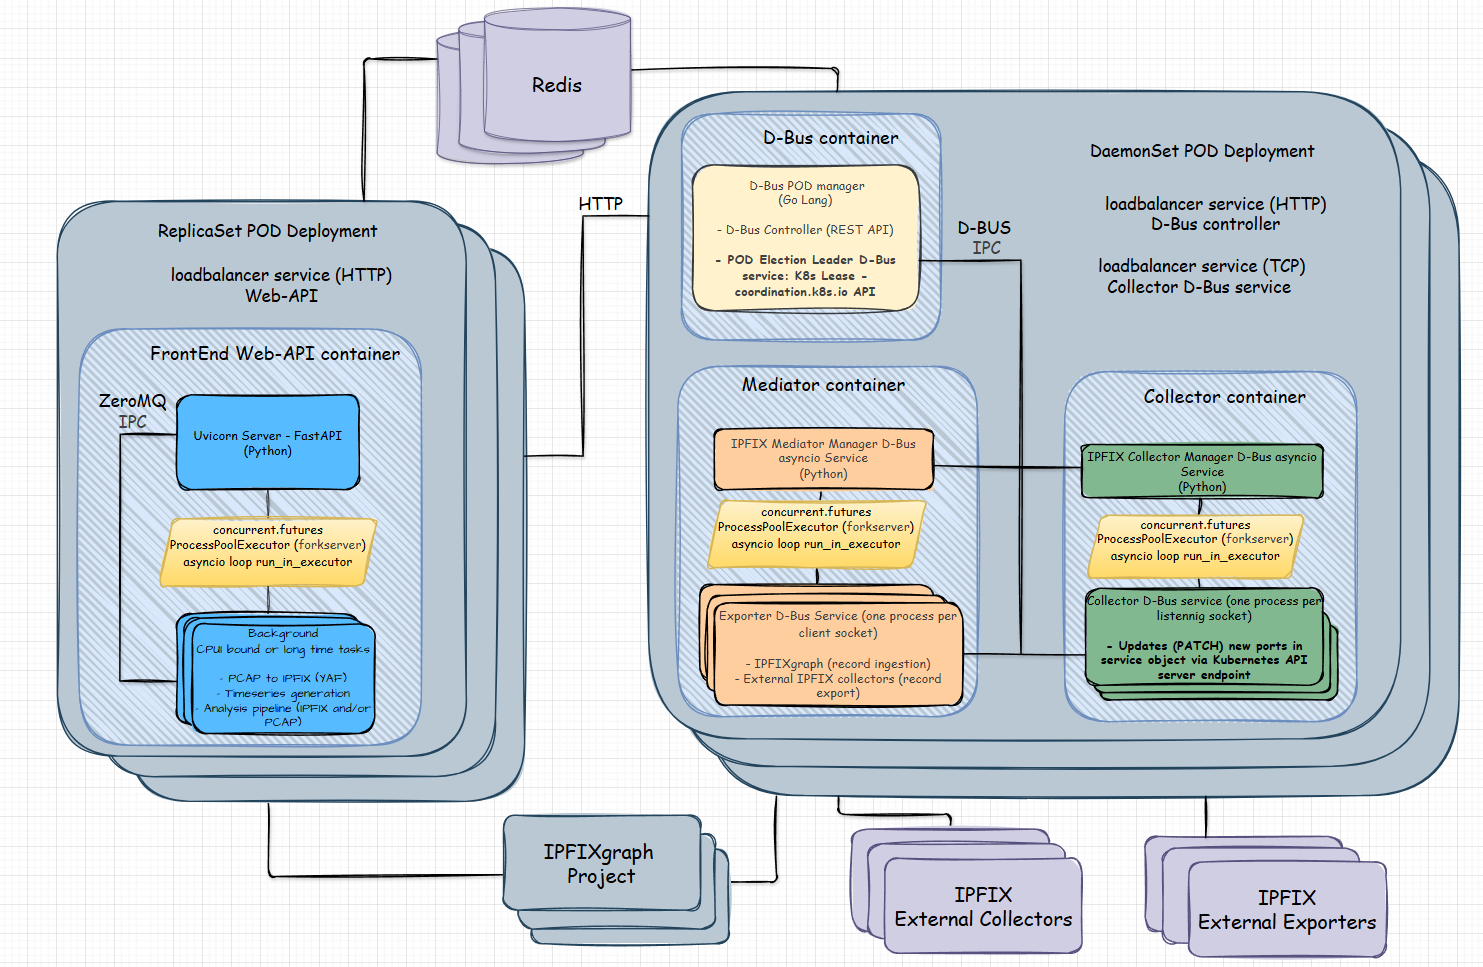
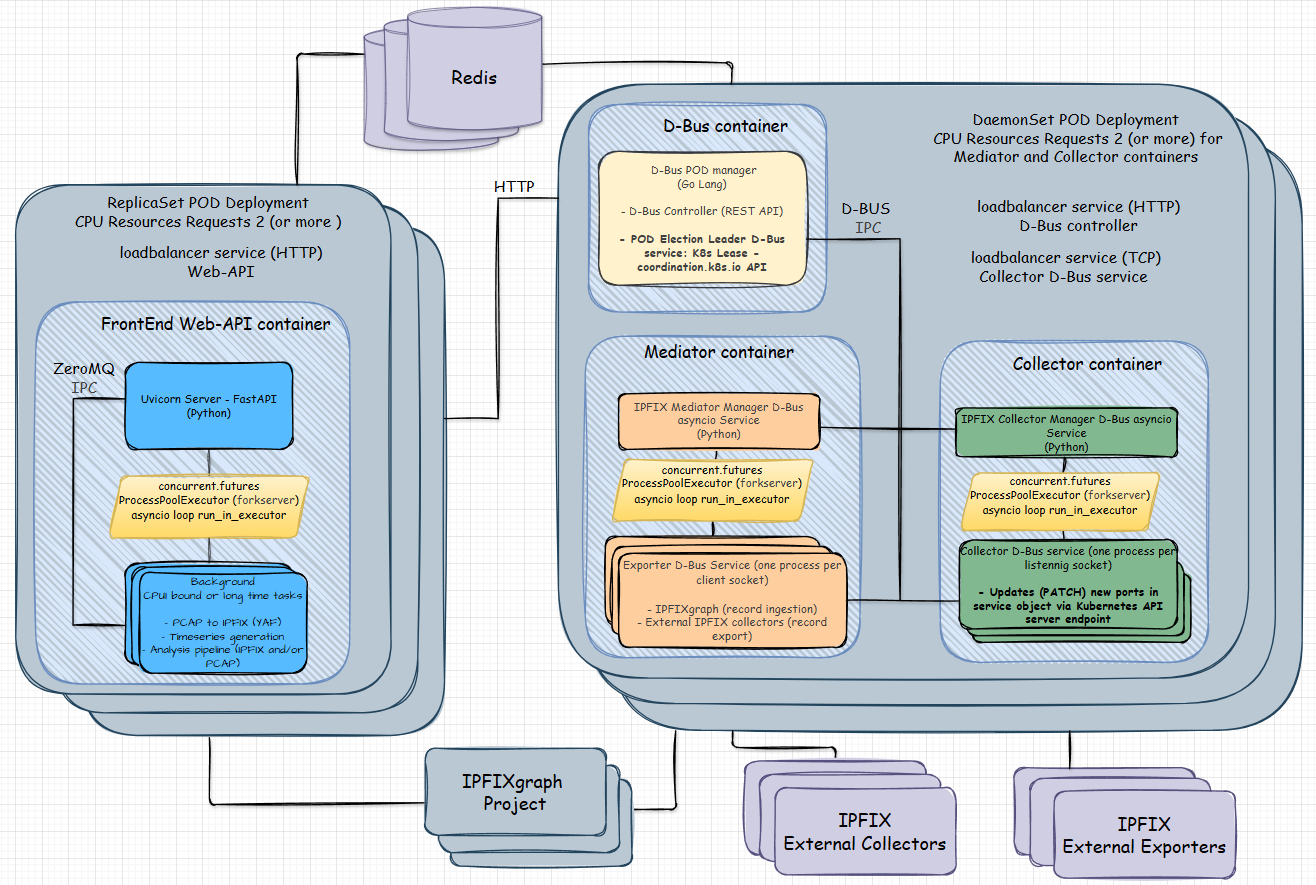
doc: starting the instrumentation and telemetry guidelines

Changed region(s): [[0.0, 0.0, 0.997, 1.0], [0.9035, 0.0915, 0.9347, 0.122]]

diff --git a/README.md b/README.md
@@ -1,5 +1,23 @@
 # IPFIXServices 
 
-
-
 ![](/docs/IPFIXservices.png)
+
+## Instrumentation and Telemetry Guidelines
+
+### General Instrumentation and Telemetry
+- Opentelemetry (Python and Go) API and SDKs for metrics, traces and logs
+
+### Custom instrumentation for detailed OS Process telemetry
+**Only specific OS processes (from Python *process-pool-executor*) need custom instrumentation to capture detailed telemetry, and at the same time these OS processes need to be correlated with the business of the service:**
+- **Background tasks from frontend WEB-API service**.
+    - Only the OS processes (worker processes) that execute the tasks (data processing, report generation and etc...) need to be instrumented.
+- **Collector instances from IPFIX Collector service**.
+    - Each OS process corresponds to a specific Collector instance and needs to be correlated with the specific Collector service configuration.
+- **Mediator instances from IPFIX Mediator service**.
+    - Each OS process corresponds to a specific Mediator instance (record export or record ingestion) and needs to be correlated with the specific Mediator service configuration.
+
+This will be achieved using the `psutil` library to gather CPU usage metrics and statistics for each specifically identified OS process. The detailed telemetry will be captured and exported using the OpenTelemetry SDK and APIs for Python using the OpenTelemetry metrics capabilities.
+
+With the detailed telemetry captured for each specifically identified OS process, we are able to identify adjustment needs:
+- Increase or decrease the number of CPUs defined for the containers running the services (K8s CPU requests and limits).
+- Increase or decrease the number of worker processes in the Python *process-pool-executor* of the services.
